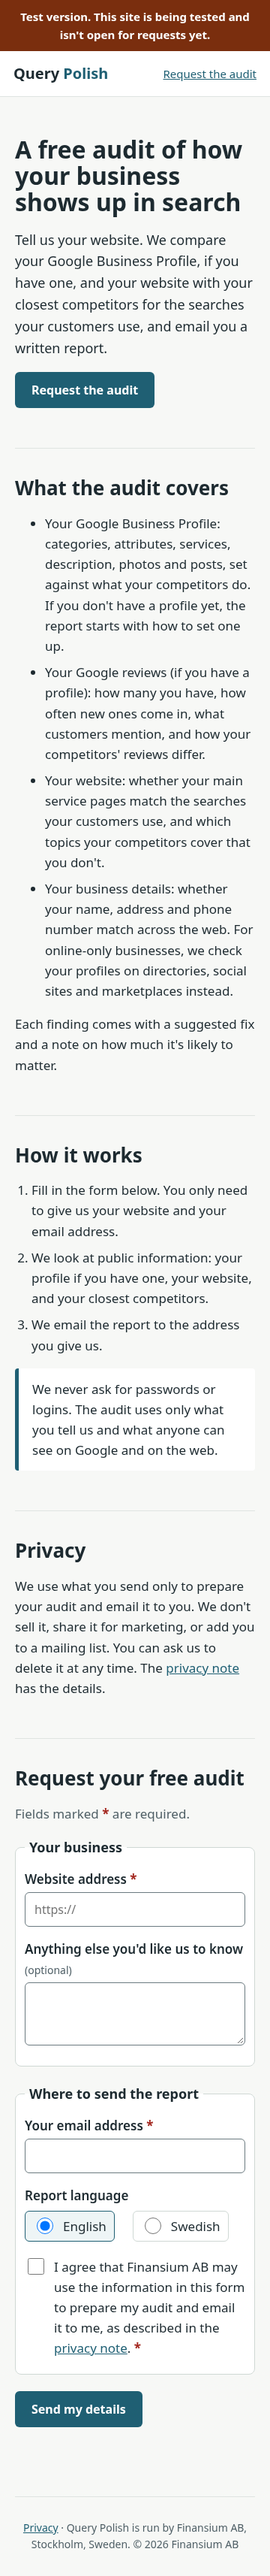
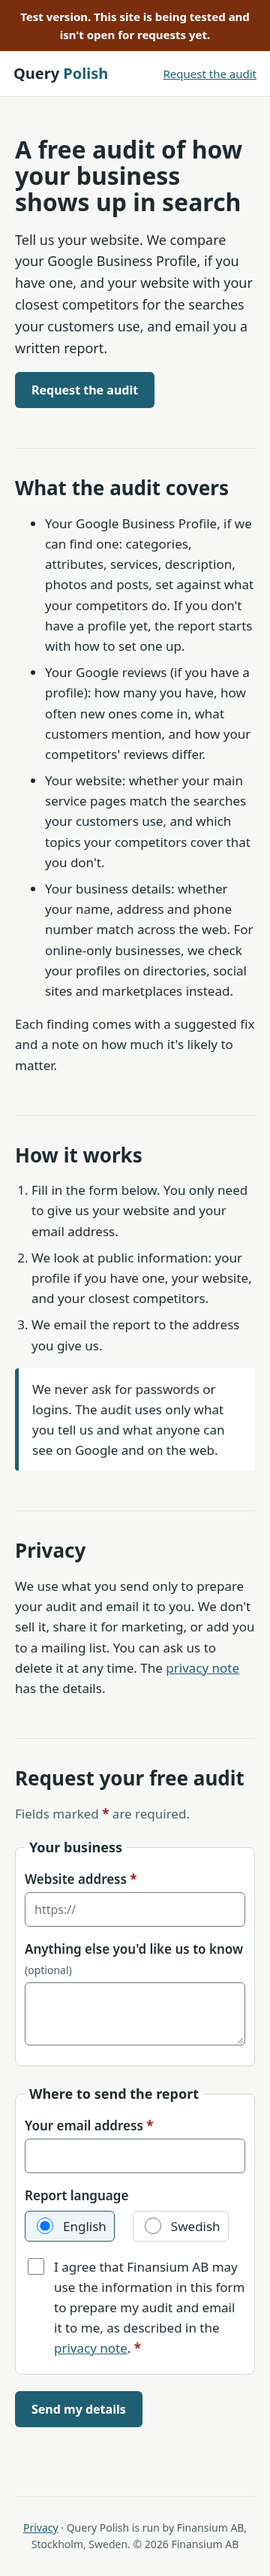
Remove receiving inbox address from tracked files (env var for scripts); Zinsser edit: "Your Google Business Profile, if we can find one"

Changed region(s): [[0.1528, 0.2185, 0.9167, 0.2497]]

diff --git a/docs/index.html b/docs/index.html
@@ -22,7 +22,7 @@
 <section>
 <h2>What the audit covers</h2>
 <ul class="list">
-<li>Your Google Business Profile: categories, attributes, services, description, photos and posts, set against what your competitors do. If you don't have a profile yet, the report starts with how to set one up.</li>
+<li>Your Google Business Profile, if we can find one: categories, attributes, services, description, photos and posts, set against what your competitors do. If you don't have a profile yet, the report starts with how to set one up.</li>
 <li>Your Google reviews (if you have a profile): how many you have, how often new ones come in, what customers mention, and how your competitors' reviews differ.</li>
 <li>Your website: whether your main service pages match the searches your customers use, and which topics your competitors cover that you don't.</li>
 <li>Your business details: whether your name, address and phone number match across the web. For online-only businesses, we check your profiles on directories, social sites and marketplaces instead.</li>

diff --git a/tests/live_submit.py b/tests/live_submit.py
@@ -1,6 +1,7 @@
 """ONE real submission through the live page (headless Chrome). ALREADY RUN 22 Oct 2026 16:46 CEST; do not re-run without a new go-ahead.
 Note: the first run lost the response body because the page navigated to thanks/ first; this version reads it inside a response handler."""
-import json, datetime, zoneinfo
+import json, datetime, zoneinfo, os, sys
+EMAIL=os.environ.get('QP_LIVE_EMAIL') or sys.exit('set QP_LIVE_EMAIL to the team inbox (not committed)')
 from playwright.sync_api import sync_playwright
 BASE='https://auberga-oak.github.io/querypolish-site/'; EV='/workspace/querypolish/evidence'; TZ=zoneinfo.ZoneInfo('Europe/Stockholm')
 rec={'attempt':1}
@@ -9,7 +10,7 @@ with sync_playwright() as pw:
     ctx=b.new_context(viewport={'width':1280,'height':900}); p=ctx.new_page()
     resp={}; p.on('response',lambda r: ('api.web3forms.com/submit' in r.url) and resp.update(status=r.status,body=r.text()))
     reqs=[]; p.on('request',lambda r: 'web3forms' in r.url and reqs.append({'url':r.url,'method':r.method}))
-    p.goto(BASE); p.fill('[name=Website]','https://querypolish.com'); p.fill('[name=email]','warren.ekenberg@agentmail.to')
+    p.goto(BASE); p.fill('[name=Website]','https://querypolish.com'); p.fill('[name=email]',EMAIL)
     p.fill('[name=Notes]','TEST submission by Kent Beck, please ignore.'); p.check('#consent')
     with p.expect_response(lambda r:'api.web3forms.com/submit' in r.url and r.request.method=='POST',timeout=30000) as ri:
         rec['submit_time_stockholm']=datetime.datetime.now(TZ).isoformat(timespec='seconds')

diff --git a/tests/run_tests.py b/tests/run_tests.py
@@ -27,7 +27,7 @@ PAGES=['/','/thanks/','/privacy/','/no-such-page/']
 BANNER="Test version. This site is being tested and isn't open for requests yet."
 KEY='c9f5ef0c-dc1b-4ead-8727-fabec3abdc98'; REDIRECT='https://auberga-oak.github.io/querypolish-site/thanks/'
 REQ={'Website','email','Consent'}
-FILL={'Website':'https://querypolish.com','email':'warren.ekenberg@agentmail.to'}
+FILL={'Website':'https://querypolish.com','email':os.environ.get('QP_TEST_EMAIL','test@example.com')}  # intercepted, never sent
 external=[]
 def guard(route):
     u=route.request.url

diff --git a/README.md b/README.md
@@ -13,19 +13,18 @@ Owner: Finansium AB. Engineering: Kent Beck. Updated 22 Oct 2026, 16:50 Stockhol
 - Backend: Web3Forms, key `c9f5ef0c-dc1b-4ead-8727-fabec3abdc98` (public by design). Redirect for no-JS posts: https://auberga-oak.github.io/querypolish-site/thanks/
 
 ## Where submissions land
-- Email to **warren.ekenberg@agentmail.to** (from `Query Polish intake form <notify@web3forms.com>`, subject "New Query Polish audit request").
-- The **Web3Forms dashboard** for that key (free plan: 30-day history).
+- **The team's AgentMail inbox and the Web3Forms dashboard.** Mail comes from `Query Polish intake form <notify@web3forms.com>` with the subject "New Query Polish audit request". The dashboard keeps 30 days of history on the free plan.
 
 ## Live end-to-end test (1 real submission, 1 attempt)
-- Submitted at about **16:46:38–39 CEST, 22 Oct 2026**, through the live page in headless Chrome. Website https://querypolish.com, email warren.ekenberg@agentmail.to, notes "TEST submission by Kent Beck, please ignore.", consent ticked.
-- Result: the page navigated to `thanks/`. form.js only does that on an OK response with `success` not false. The script failed to save the response body and the screenshot because the navigation came first (fixed in `tests/live_submit.py`, which must not be re-run without a go-ahead).
-- **The email arrived at 16:46:39 CEST** in warren.ekenberg@agentmail.to (thread `09de4a82-f5b1-43bb-8b0b-bf67942cf558`): Website, Notes, email, report_language=English, Consent=Yes. I only read it; nothing was sent, replied to or forwarded.
+- Submitted at about **16:46:38–39 CEST, 22 Oct 2026**, through the live page in headless Chrome. Website https://querypolish.com, email [team inbox], notes "TEST submission by Kent Beck, please ignore.", consent ticked.
+- Result: the page navigated to `thanks/`. form.js only does that on an OK response with `success` not false. The script failed to save the response body and the screenshot because the navigation came first (fixed in `tests/live_submit.py`, which must not be re-run without a go-ahead; it reads the inbox address from `QP_LIVE_EMAIL`, which isn't committed).
+- **The email arrived at 16:46:39 CEST** in [team inbox] (thread `09de4a82-f5b1-43bb-8b0b-bf67942cf558`): Website, Notes, email, report_language=English, Consent=Yes. I only read it; nothing was sent, replied to or forwarded.
 - Record: `evidence/live-submit-result.json`.
 
 ## Tests
 - `cd tests && QP_PORT=28765 python3 run_tests.py` serves `docs/` locally under `/querypolish-site/`. Result: **126 pass, 0 fail** (`evidence/test-output.txt`).
 - `QP_BASE=https://auberga-oak.github.io/querypolish-site python3 run_tests.py` runs the same checks against the live site. Result: **126 pass, 0 fail** (`evidence/live-test-output.txt`).
-- Both runs intercept the backend request (abort or a local mock), so the test runs send nothing.
+- Both runs intercept the backend request (abort or a local mock), so the test runs send nothing. The test email defaults to `test@example.com` (override with `QP_TEST_EMAIL`).
 - Coverage: the 3 required fields, banner and noindex on every page, the aborted submit and its payload, JS off, 360/390/1280 px (plus @2x), console errors, contrast (min 4.61:1), links and anchors, no root-absolute paths outside the subpath, robots/sitemap/CNAME.
 
 ## Evidence
@@ -40,5 +39,5 @@ Owner: Finansium AB. Engineering: Kent Beck. Updated 22 Oct 2026, 16:50 Stockhol
 - The README and live evidence are committed on top of debc9be (see `git log`).
 
 ## Known issues and flags
-- The public repo history includes `tests/v1-evidence/` (scraped third-party pages from earlier Luck Habits research) and `backups/`. They were removed from the tree in 6dd43a7 but are still in history, and the evidence JSON shows the receiving inbox address. Rewriting history needs a force push, so I haven't done it.
+- The public repo history includes `tests/v1-evidence/` (scraped third-party pages from earlier Luck Habits research) and `backups/`. They were removed from the tree in 6dd43a7 but are still in history, and older commits show the receiving inbox address. It was removed from all current files on main on 22 Oct. Rewriting history needs a force push, so I haven't done it.
 - The box can't reach plain HTTP (port 80), so I didn't verify the HTTP to HTTPS redirect from here. HTTPS returns 200.
